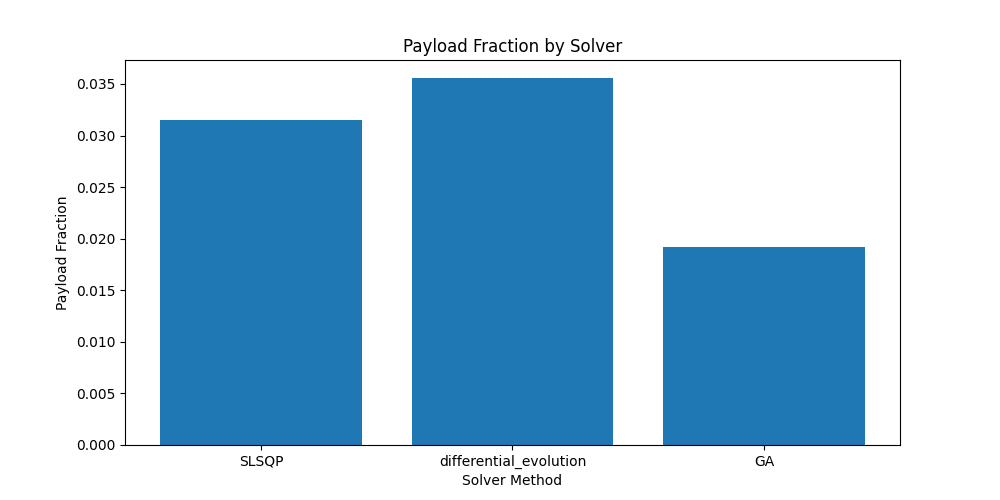
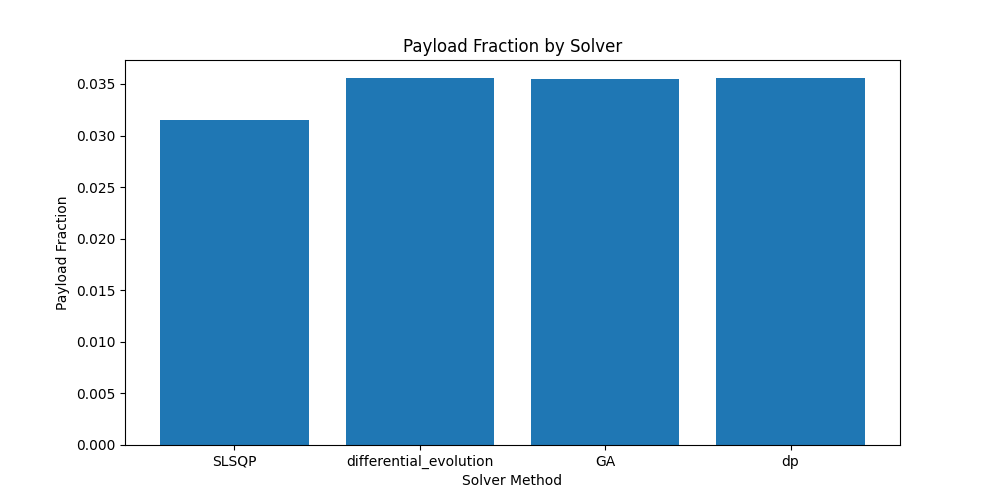
added more solvers

Changed region(s): [[0.31, 0.15, 0.868, 0.93], [0.744, 0.9, 0.806, 0.93], [0.217, 0.9, 0.279, 0.93]]

diff --git a/Stage_Opt/payload_optimization.py b/Stage_Opt/payload_optimization.py
@@ -24,7 +24,7 @@ import csv
 import sys
 import time  # for timing
 import numpy as np
-from scipy.optimize import minimize, differential_evolution
+from scipy.optimize import minimize, differential_evolution, approx_fprime
 from pymoo.algorithms.soo.nonconvex.ga import GA
 from pymoo.optimize import minimize as pymoo_minimize
 from pymoo.core.problem import Problem
@@ -190,14 +190,13 @@ def optimize_payload_allocation(TOTAL_DELTA_V, ISP, EPSILON, G0=9.81, method='SL
     initial_guess = np.full(n, TOTAL_DELTA_V / n)
     bounds = [(0, max_dv_i) for max_dv_i in max_dv]
     
-    # For SLSQP we can use the constraint directly.
-    if method == 'SLSQP':
+    if method.upper() == 'SLSQP':
         constraints = {'type': 'eq', 'fun': lambda dv: np.sum(dv) - TOTAL_DELTA_V}
         res = minimize(payload_fraction_objective, initial_guess, 
                       args=(G0, ISP, EPSILON, penalty_coeff), 
                       method=method, bounds=bounds, constraints=constraints)
-    elif method == 'differential_evolution':
-        # Use the penalized objective for DE.
+        optimal_dv = res.x
+    elif method.lower() == 'differential_evolution':
         res = differential_evolution(
             objective_with_penalty, 
             bounds, 
@@ -209,38 +208,89 @@ def optimize_payload_allocation(TOTAL_DELTA_V, ISP, EPSILON, G0=9.81, method='SL
             recombination=0.7,
             polish=True
         )
-    elif method == 'GA':
-        # Use the penalized objective within the GA evaluation.
+        optimal_dv = res.x
+    elif method.upper() == 'GA':
+        # Use the penalized objective within the GA evaluation with custom initialization to ensure a minimum delta-V for the first stage.
+        # Set a minimum lower bound for the first stage as 10% of TOTAL_DELTA_V
+        min_bounds = np.zeros(n)
+        min_bounds[0] = TOTAL_DELTA_V * 0.1
+
         class OptimizationProblem(Problem):
             def __init__(self):
-                super().__init__(n_var=n, n_obj=1, xl=np.zeros(n), xu=max_dv)
+                # Use custom lower bounds for the first stage, and 0 for others
+                super().__init__(n_var=n, n_obj=1, xl=min_bounds, xu=max_dv)
+
             def _evaluate(self, x, out, *args, **kwargs):
-                if x.ndim == 1:
-                    x = x.reshape(1, -1)
-                F = np.array([
-                    objective_with_penalty(np.asarray(xi).flatten(), G0, ISP, EPSILON, 
-                                        TOTAL_DELTA_V, penalty_coeff, tol)
-                    for xi in x
-                ])
-                out["F"] = F.reshape(-1, 1)
-        
+                out["F"] = np.apply_along_axis(lambda dv: objective_with_penalty(dv, G0, ISP, EPSILON, TOTAL_DELTA_V, penalty_coeff, tol), 1, x)
+
         problem = OptimizationProblem()
-        algorithm = GA(pop_size=100)
-        res_obj = pymoo_minimize(problem, algorithm, termination=('n_gen', 100))
+
+        # Set GA population size to 200
+        pop_size = 200
+
+        # Custom initial population that respects the minimum for the first stage
+        custom_pop = np.random.uniform(0, 1, size=(pop_size, n))
+        # For first stage, sample between min_bounds[0] and max_dv[0]
+        custom_pop[:, 0] = np.random.uniform(min_bounds[0], max_dv[0], size=pop_size)
+        # Scale each individual's allocation so that the sum equals TOTAL_DELTA_V
+        custom_pop = (custom_pop.T / custom_pop.sum(axis=1) * TOTAL_DELTA_V).T
+
+        algorithm = GA(pop_size=pop_size, eliminate_duplicates=True)
+        # Set the custom initialization if supported
+        algorithm.initial_population = custom_pop
+
+        # Increase termination generation count
+        res_obj = pymoo_minimize(problem, algorithm, termination=('n_gen', 200))
         res = res_obj.X  # GA returns the best solution directly
-
-    # For SLSQP and differential_evolution, check that optimization was successful.
-    if method in ['SLSQP', 'differential_evolution']:
-        if not res.success:
-            raise RuntimeError(f"Optimization failed: {res.message}")
-        optimal_dv = res.x
-    else:
         optimal_dv = res
-
-    optimal_stage_ratio = [np.exp(-dvi / (G0 * ISP[i])) - EPSILON[i] for i, dvi in enumerate(optimal_dv)]
-    overall_payload = np.prod(optimal_stage_ratio)
+    elif method.lower() == 'newton':
+        jacobian = lambda x: approx_fprime(x, lambda dv: objective_with_penalty(dv, G0, ISP, EPSILON, TOTAL_DELTA_V, penalty_coeff, tol), 1e-8)
+        res = minimize(objective_with_penalty, initial_guess, args=(G0, ISP, EPSILON, TOTAL_DELTA_V, penalty_coeff, tol), method='Newton-CG', jac=jacobian)
+        optimal_dv = res.x
+    elif method.lower() == 'dp':
+        if n > 3:
+            raise ValueError('Dynamic programming approach only supports up to 3 stages')
+        if n == 1:
+            optimal_dv = np.array([TOTAL_DELTA_V])
+        elif n == 2:
+            best_obj = np.inf
+            best_alloc = None
+            steps = 1000
+            step_size = TOTAL_DELTA_V / steps
+            for i in range(steps+1):
+                dv1 = i * step_size
+                dv2 = TOTAL_DELTA_V - dv1
+                dv = np.array([dv1, dv2])
+                obj = objective_with_penalty(dv, G0, ISP, EPSILON, TOTAL_DELTA_V, penalty_coeff, tol)
+                if obj < best_obj:
+                    best_obj = obj
+                    best_alloc = dv
+            optimal_dv = best_alloc
+        elif n == 3:
+            best_obj = np.inf
+            best_alloc = None
+            resolution = 100  # coarse resolution for 3 stages
+            step_size = TOTAL_DELTA_V / resolution
+            for i in range(resolution+1):
+                for j in range(resolution+1 - i):
+                    dv1 = i * step_size
+                    dv2 = j * step_size
+                    dv3 = TOTAL_DELTA_V - dv1 - dv2
+                    if dv3 < 0:
+                        continue
+                    dv = np.array([dv1, dv2, dv3])
+                    obj = objective_with_penalty(dv, G0, ISP, EPSILON, TOTAL_DELTA_V, penalty_coeff, tol)
+                    if obj < best_obj:
+                        best_obj = obj
+                        best_alloc = dv
+            optimal_dv = best_alloc
+    else:
+        raise ValueError(f"Unsupported optimization method: {method}")
+ 
+    stage_ratios = [np.exp(-dvi / (G0 * ISP[i])) - EPSILON[i] for i, dvi in enumerate(optimal_dv)]
+    overall_payload = np.prod(stage_ratios)
     
-    return optimal_dv, optimal_stage_ratio, overall_payload
+    return optimal_dv, stage_ratios, overall_payload
 
 def plot_dv_breakdown(results, total_delta_v, gravity_loss, drag_loss, filename="dv_breakdown.png"):
     """
@@ -288,6 +338,7 @@ def generate_report(parameters, stages, results):
     input_df = pd.DataFrame(list(parameters.items()), columns=["Parameter", "Value"])
     stages_df = pd.DataFrame(stages)
     results_df = pd.DataFrame(results)
+    results_df = results_df.applymap(lambda x: float(x) if isinstance(x, (np.floating, np.integer)) else x)
     
     input_df.to_csv("input_variables.csv", index=False)
     stages_df.to_csv("stage_data.csv", index=False)
@@ -323,7 +374,7 @@ def main():
     ISP = [stage['ISP'] for stage in stages]
     EPSILON = [stage['EPSILON'] for stage in stages]
 
-    methods = ['SLSQP', 'differential_evolution', 'GA']
+    methods = ['SLSQP', 'differential_evolution', 'GA', 'newton', 'dp']
     optimization_results = []
 
     # Run optimization for each method.

diff --git a/Stage_Opt/report.tex b/Stage_Opt/report.tex
@@ -15,9 +15,10 @@
 \hline
 Method & Time (s) & Payload Fraction \\
 \hline
-SLSQP & 0.0020 & 0.0315 \\
-differential_evolution & 2.7082 & 0.0355 \\
-GA & 1.2490 & 0.0192 \\
+SLSQP & 0.0000 & 0.0315 \\
+differential_evolution & 2.7332 & 0.0355 \\
+GA & 4.7571 & 0.0355 \\
+dp & 0.0455 & 0.0355 \\
 \hline
 \end{tabular}
 \end{document}
